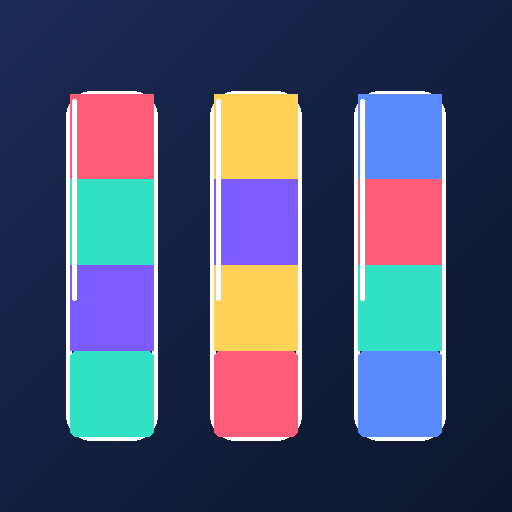
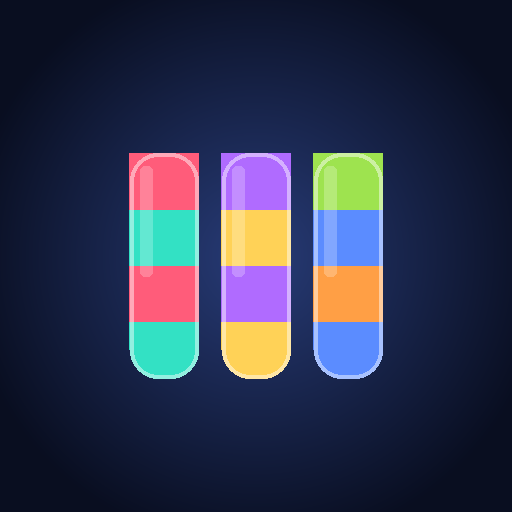
ColorFlow v2 : tuto 3 étapes, surbrillance verte des coups valides, animation versement, son+vibration, nouvelle icône, SW network-first

diff --git a/index.html b/index.html
@@ -16,6 +16,7 @@
     --bg:#0e1630; --bg2:#070c1c; --panel:#182a52; --line:#2b3d68;
     --accent:#33e1c4; --accent2:#7c5cff; --gold:#ffd257;
     --text:#eef3ff; --muted:#93a4cc; --tube:#101a38; --tubeglass:rgba(255,255,255,.06);
+    --good:#37e08a;
   }
   *{box-sizing:border-box;-webkit-tap-highlight-color:transparent;-webkit-user-select:none;user-select:none}
   html,body{margin:0;height:100%}
@@ -24,43 +25,60 @@
     background:radial-gradient(1200px 800px at 50% -8%, #1b2a55 0%, #0e1630 45%, #070c1c 100%);
     color:var(--text);min-height:100dvh;display:flex;flex-direction:column;overflow:hidden;touch-action:manipulation;
   }
-  .top{display:flex;align-items:center;justify-content:space-between;padding:14px 18px 6px}
+  .top{display:flex;align-items:center;justify-content:space-between;padding:14px 16px 4px}
   .logo{font-weight:800;font-size:20px;letter-spacing:.3px;display:flex;align-items:center;gap:8px}
   .logo .dot{width:14px;height:14px;border-radius:50%;background:conic-gradient(#33e1c4,#7c5cff,#ff5c8a,#ffd257,#33e1c4);box-shadow:0 0 14px rgba(124,92,255,.6)}
   .logo b{background:linear-gradient(90deg,#7cf0dc,#a99bff);-webkit-background-clip:text;background-clip:text;color:transparent}
-  .hud{display:flex;gap:8px;align-items:center}
-  .chip{background:rgba(255,255,255,.06);border:1px solid var(--line);border-radius:12px;padding:7px 12px;font-size:13px;font-weight:700;color:var(--text)}
+  .hud{display:flex;gap:6px;align-items:center}
+  .chip{background:rgba(255,255,255,.06);border:1px solid var(--line);border-radius:12px;padding:7px 11px;font-size:13px;font-weight:700;color:var(--text)}
   .chip .k{color:var(--muted);font-weight:600;margin-right:5px}
-  .iconbtn{width:40px;height:40px;border-radius:12px;background:rgba(255,255,255,.06);border:1px solid var(--line);color:var(--text);font-size:18px;display:flex;align-items:center;justify-content:center;cursor:pointer}
+  .iconbtn{width:38px;height:38px;border-radius:12px;background:rgba(255,255,255,.06);border:1px solid var(--line);color:var(--text);font-size:17px;display:flex;align-items:center;justify-content:center;cursor:pointer}
   .iconbtn:active{transform:scale(.94)}
-  .stage{flex:1;display:flex;align-items:center;justify-content:center;padding:6px 10px}
+  .stage{flex:1;display:flex;align-items:center;justify-content:center;padding:6px 10px;position:relative}
   .tubes{display:flex;flex-wrap:wrap;gap:16px 20px;justify-content:center;align-items:flex-end;max-width:560px}
   .tube{
     position:relative;width:56px;height:200px;border:3px solid rgba(255,255,255,.16);
     border-top:none;border-radius:6px 6px 26px 26px;background:var(--tubeglass);
-    display:flex;flex-direction:column-reverse;overflow:hidden;cursor:pointer;transition:transform .18s cubic-bezier(.3,1.4,.5,1);
+    display:flex;flex-direction:column-reverse;overflow:hidden;cursor:pointer;
+    transition:transform .2s cubic-bezier(.3,1.5,.5,1), box-shadow .2s, border-color .2s;
     box-shadow:inset 0 -8px 20px rgba(0,0,0,.25);
   }
-  .tube::before{content:"";position:absolute;top:0;left:6px;width:10px;height:70%;background:linear-gradient(180deg,rgba(255,255,255,.28),transparent);border-radius:8px;pointer-events:none}
-  .tube.sel{transform:translateY(-22px);border-color:var(--gold);box-shadow:0 10px 26px rgba(255,210,87,.28),inset 0 -8px 20px rgba(0,0,0,.25)}
-  .tube.win{border-color:var(--accent)}
-  .seg{width:100%;height:25%;transition:height .12s ease, opacity .2s ease}
-  .seg.pour{animation:pop .22s ease}
-  @keyframes pop{0%{transform:scaleY(.4);opacity:.4}100%{transform:scaleY(1);opacity:1}}
-  .adbar{height:56px;min-height:56px;display:flex;align-items:center;justify-content:center;border-top:1px solid var(--line);background:rgba(6,10,24,.7);color:var(--muted);font-size:12px;letter-spacing:.3px;gap:8px}
-  .adbar .slot{display:flex;align-items:center;gap:10px;background:rgba(255,255,255,.04);border:1px dashed var(--line);border-radius:10px;padding:8px 14px}
-  .foothint{text-align:center;color:var(--muted);font-size:12px;padding:2px 0 6px}
+  .tube::before{content:"";position:absolute;top:0;left:6px;width:10px;height:70%;background:linear-gradient(180deg,rgba(255,255,255,.28),transparent);border-radius:8px;pointer-events:none;z-index:3}
+  .tube.sel{transform:translateY(-24px);border-color:var(--gold);box-shadow:0 12px 26px rgba(255,210,87,.30),inset 0 -8px 20px rgba(0,0,0,.25)}
+  .tube.valid{border-color:var(--good);box-shadow:0 0 0 3px rgba(55,224,138,.22),0 0 22px rgba(55,224,138,.35),inset 0 -8px 20px rgba(0,0,0,.25);animation:validpulse 1.1s ease-in-out infinite}
+  @keyframes validpulse{0%,100%{box-shadow:0 0 0 3px rgba(55,224,138,.18),0 0 16px rgba(55,224,138,.28),inset 0 -8px 20px rgba(0,0,0,.25)}50%{box-shadow:0 0 0 5px rgba(55,224,138,.30),0 0 30px rgba(55,224,138,.5),inset 0 -8px 20px rgba(0,0,0,.25)}}
+  .tube.win{border-color:var(--accent);animation:winpop .5s ease}
+  @keyframes winpop{0%{transform:scale(1)}40%{transform:scale(1.08)}100%{transform:scale(1)}}
+  .tube.hintpulse{animation:hintpulse 1s ease-in-out infinite}
+  @keyframes hintpulse{0%,100%{transform:translateY(0)}50%{transform:translateY(-10px)}}
+  .seg{width:100%;height:25%;position:relative;z-index:1}
+  .seg.pourin{animation:pourin .34s cubic-bezier(.35,.9,.4,1)}
+  @keyframes pourin{0%{transform:translateY(-220px) scaleY(.5);opacity:.15}60%{opacity:1}80%{transform:translateY(6px) scaleY(1.08)}100%{transform:translateY(0) scaleY(1);opacity:1}}
+  .tube.shake{animation:shake .3s}
+  @keyframes shake{0%,100%{transform:translateX(0)}25%{transform:translateX(-5px)}50%{transform:translateX(5px)}75%{transform:translateX(-3px)}}
+  .adbar{height:52px;min-height:52px;display:flex;align-items:center;justify-content:center;border-top:1px solid var(--line);background:rgba(6,10,24,.7);color:var(--muted);font-size:12px;letter-spacing:.3px;gap:8px}
+  .adbar .slot{display:flex;align-items:center;gap:10px;background:rgba(255,255,255,.04);border:1px dashed var(--line);border-radius:10px;padding:7px 14px}
+  .foothint{text-align:center;color:var(--muted);font-size:13px;padding:4px 12px 8px;min-height:22px;transition:color .2s;font-weight:600}
+  .foothint b{color:var(--good)}
   /* overlays */
-  .ov{position:fixed;inset:0;display:none;align-items:center;justify-content:center;z-index:50;padding:22px;background:rgba(5,9,20,.74);backdrop-filter:blur(5px)}
+  .ov{position:fixed;inset:0;display:none;align-items:center;justify-content:center;z-index:50;padding:22px;background:rgba(5,9,20,.78);backdrop-filter:blur(5px)}
   .ov.show{display:flex}
-  .sheet{background:linear-gradient(180deg,#182a52,#101a38);border:1px solid var(--line);border-radius:22px;max-width:420px;width:100%;padding:26px 22px;text-align:center;box-shadow:0 24px 60px rgba(0,0,0,.5)}
+  .sheet{background:linear-gradient(180deg,#182a52,#101a38);border:1px solid var(--line);border-radius:22px;max-width:430px;width:100%;padding:26px 22px;text-align:center;box-shadow:0 24px 60px rgba(0,0,0,.5)}
   .sheet h2{margin:6px 0 4px;font-size:26px}
-  .sheet p{color:var(--muted);margin:0 0 18px;line-height:1.5}
+  .sheet p{color:var(--muted);margin:0 0 16px;line-height:1.5}
   .big{font-size:54px;line-height:1;margin:6px 0}
   .btn{border:none;border-radius:14px;padding:15px 20px;font-size:17px;font-weight:800;cursor:pointer;width:100%;color:#08111f;background:linear-gradient(180deg,#5cf0d6,#26c9ab)}
   .btn:active{transform:scale(.98)}
   .btn.sec{background:transparent;border:1px solid var(--line);color:var(--text);font-weight:700;margin-top:10px}
   .stars{font-size:30px;letter-spacing:6px;margin:2px 0 6px}
+  /* how-to steps */
+  .steps{text-align:left;background:rgba(255,255,255,.04);border:1px solid var(--line);border-radius:14px;padding:14px 16px;margin:2px 0 18px}
+  .steps .st{display:flex;gap:11px;align-items:flex-start;margin:9px 0;font-size:14.5px;line-height:1.35;color:var(--text)}
+  .steps .st .n{flex:0 0 26px;height:26px;border-radius:50%;background:linear-gradient(180deg,#5cf0d6,#26c9ab);color:#06121e;font-weight:800;display:flex;align-items:center;justify-content:center;font-size:14px}
+  .steps .st b{color:var(--good)}
+  .mini{display:flex;gap:8px;justify-content:center;margin:4px 0 14px;align-items:flex-end}
+  .mtube{width:26px;height:74px;border:2px solid rgba(255,255,255,.18);border-top:none;border-radius:3px 3px 12px 12px;display:flex;flex-direction:column-reverse;overflow:hidden}
+  .mseg{width:100%;height:25%}
   /* interstitial house-ad */
   .adcard{background:linear-gradient(135deg,#20305a,#141f3e);border:1px solid var(--line);border-radius:16px;padding:20px;margin-bottom:14px}
   .adcard .lbl{font-size:11px;color:var(--muted);letter-spacing:1px;text-align:left;margin-bottom:8px}
@@ -70,7 +88,7 @@
   .adcard .promo p{margin:0;font-size:13px}
   .skip{color:var(--muted);font-size:13px;margin-top:6px}
   a.plain{color:var(--accent)}
-  .toast{position:fixed;left:50%;top:14px;transform:translateX(-50%);background:#0f1a30;border:1px solid var(--accent);padding:9px 16px;border-radius:12px;font-weight:700;font-size:14px;z-index:70;opacity:0;transition:opacity .2s;pointer-events:none}
+  .toast{position:fixed;left:50%;top:14px;transform:translateX(-50%);background:#0f1a30;border:1px solid var(--accent);padding:9px 16px;border-radius:12px;font-weight:700;font-size:14px;z-index:70;opacity:0;transition:opacity .2s;pointer-events:none;text-align:center;max-width:88vw}
   .toast.show{opacity:1}
 </style>
 </head>
@@ -80,14 +98,16 @@
     <div class="hud">
       <span class="chip"><span class="k">Niv.</span><span id="lvl">1</span></span>
       <span class="chip"><span class="k">Coups</span><span id="moves">0</span></span>
+      <button class="iconbtn" id="sound" title="Son">🔊</button>
       <button class="iconbtn" id="undo" title="Annuler">↩︎</button>
       <button class="iconbtn" id="restart" title="Recommencer">⟳</button>
+      <button class="iconbtn" id="help" title="Règles">?</button>
     </div>
   </div>
 
   <div class="stage"><div class="tubes" id="tubes"></div></div>
 
-  <div class="foothint" id="hint">Touche un tube, puis un autre pour verser. But : une seule couleur par tube.</div>
+  <div class="foothint" id="hint">Touche un tube pour commencer.</div>
 
   <!-- Emplacement bannière (AdMob/AdSense à brancher) -->
   <div class="adbar" id="banner">
@@ -118,12 +138,33 @@
     </div>
   </div>
 
+  <!-- HELP / rules -->
+  <div class="ov" id="helpOv">
+    <div class="sheet">
+      <div class="big">🧪</div>
+      <h2>Comment jouer</h2>
+      <div class="mini" id="miniGuide"></div>
+      <div class="steps">
+        <div class="st"><span class="n">1</span><div>Touche un <b>tube plein</b> : il se soulève (sélectionné).</div></div>
+        <div class="st"><span class="n">2</span><div>Touche un tube en <b>vert</b> pour <b>verser</b> la couleur du dessus. On ne verse que sur la <b>même couleur</b> (ou un tube vide).</div></div>
+        <div class="st"><span class="n">3</span><div>Objectif : <b>4 couleurs identiques</b> dans chaque tube. Tout trié = niveau gagné ✓</div></div>
+      </div>
+      <button class="btn" id="helpClose">J'ai compris, je joue ▶</button>
+    </div>
+  </div>
+
   <!-- START / new game -->
   <div class="ov" id="startOv">
     <div class="sheet">
       <div class="big">🧪</div>
       <h2>ColorFlow</h2>
-      <p>Verse les couleurs, trie les tubes, vide ta tête.<br>Simple. Satisfaisant. Sans fin.</p>
+      <p>Verse les couleurs, trie les tubes, vide ta tête.</p>
+      <div class="mini" id="miniGuide2"></div>
+      <div class="steps">
+        <div class="st"><span class="n">1</span><div>Touche un <b>tube</b> pour le soulever.</div></div>
+        <div class="st"><span class="n">2</span><div>Touche un tube <b>vert</b> pour <b>verser</b> la couleur du dessus.</div></div>
+        <div class="st"><span class="n">3</span><div>Range <b>4 couleurs identiques</b> par tube = gagné ✓</div></div>
+      </div>
       <button class="btn" id="playBtn">Jouer ▶</button>
       <button class="btn sec" id="contBtn">Reprendre au niveau <span id="contLvl">1</span></button>
     </div>
@@ -148,11 +189,31 @@
 
   var st=null;          // {level, tubes:[[..]], moves}
   var sel=-1, history=[], winCount=load('cf_wins',0), busy=false;
+  var soundOn=load('cf_sound',1), tutDone=load('cf_tut',0);
 
   function load(k,d){try{var v=localStorage.getItem(k);return v==null?d:JSON.parse(v);}catch(e){return d;}}
   function saveWins(){localStorage.setItem('cf_wins',JSON.stringify(winCount));}
   function saveGame(){localStorage.setItem(KEY,JSON.stringify({level:st.level}));}
   function savedLevel(){var g=load(KEY,null);return g&&g.level?g.level:1;}
+
+  /* ---- audio (Web Audio, aucun fichier) ---- */
+  var actx=null;
+  function ac(){ if(!actx){ try{ actx=new (window.AudioContext||window.webkitAudioContext)(); }catch(e){} } if(actx&&actx.state==='suspended') actx.resume(); return actx; }
+  function tone(freq,dur,type,vol,slideTo){
+    if(!soundOn) return; var c=ac(); if(!c) return;
+    var o=c.createOscillator(), g=c.createGain(); o.type=type||'sine';
+    o.frequency.setValueAtTime(freq,c.currentTime);
+    if(slideTo) o.frequency.exponentialRampToValueAtTime(slideTo,c.currentTime+dur);
+    g.gain.setValueAtTime((vol||0.14),c.currentTime);
+    g.gain.exponentialRampToValueAtTime(0.0001,c.currentTime+dur);
+    o.connect(g); g.connect(c.destination); o.start(); o.stop(c.currentTime+dur+0.02);
+  }
+  function sPick(){ tone(660,0.08,'triangle',0.12,880); vib(8); }
+  function sPour(){ tone(520,0.22,'sine',0.16,240); vib(14); }
+  function sBad(){ tone(150,0.16,'sawtooth',0.10,90); vib([12,40,12]); }
+  function sTubeDone(){ tone(880,0.12,'sine',0.14,1320); }
+  function sWin(){ if(!soundOn)return; [523,659,784,1047].forEach(function(f,i){ setTimeout(function(){tone(f,0.18,'sine',0.16);},i*110); }); vib([20,40,20,40,60]); }
+  function vib(p){ try{ if(soundOn&&navigator.vibrate) navigator.vibrate(p); }catch(e){} }
 
   /* ---- level generation (solvable-friendly: 2 tubes vides) ---- */
   function levelConfig(L){
@@ -162,23 +223,34 @@
   function genLevel(L){
     var cfg=levelConfig(L), n=cfg.colors, empt=cfg.empties;
     var bag=[]; for(var c=0;c<n;c++){ for(var i=0;i<H;i++) bag.push(c); }
-    // shuffle
     for(var i=bag.length-1;i>0;i--){var j=Math.floor(Math.random()*(i+1));var t=bag[i];bag[i]=bag[j];bag[j]=t;}
     var tubes=[]; for(var k=0;k<n;k++) tubes.push(bag.slice(k*H,k*H+H));
     for(var e=0;e<empt;e++) tubes.push([]);
-    if(isSolved(tubes)) return genLevel(L); // extrêmement rare
+    if(isSolved(tubes)) return genLevel(L);
     return {level:L, tubes:tubes, moves:0};
   }
   function isSolved(tubes){
     return tubes.every(function(t){ return t.length===0 || (t.length===H && t.every(function(x){return x===t[0];})); });
+  }
+  function tubeDone(t){ return t.length===H && t.every(function(x){return x===t[0];}); }
+
+  /* ---- validity (pour teaching the rule) ---- */
+  function canPour(fromIdx,toIdx){
+    if(fromIdx===toIdx) return false;
+    var from=st.tubes[fromIdx], to=st.tubes[toIdx];
+    if(!from.length) return false;
+    var run=topRun(from), space=H-to.length;
+    return run.count>0 && space>0 && (to.length===0 || to[to.length-1]===run.color);
   }
 
   /* ---- render ---- */
   function render(){
     var wrap=$('tubes'); wrap.innerHTML='';
     st.tubes.forEach(function(tube,idx){
-      var el=document.createElement('div'); el.className='tube'+(idx===sel?' sel':'');
-      if(tube.length===H && tube.every(function(x){return x===tube[0];})) el.className+=' win';
+      var el=document.createElement('div'); el.className='tube';
+      if(idx===sel) el.className+=' sel';
+      else if(sel>=0 && canPour(sel,idx)) el.className+=' valid';
+      if(tubeDone(tube)) el.className+=' win';
       for(var i=0;i<tube.length;i++){
         var s=document.createElement('div'); s.className='seg';
         s.style.background=COLORS[tube[i]];
@@ -188,30 +260,62 @@
       wrap.appendChild(el);
     });
     $('lvl').textContent=st.level; $('moves').textContent=st.moves;
+    updateHint();
+  }
+  function updateHint(){
+    var h=$('hint');
+    if(sel<0){
+      h.innerHTML = st.moves===0 && !tutDone
+        ? 'Touche un <b>tube plein</b> pour le soulever 👆'
+        : 'Touche un tube pour le soulever.';
+    } else {
+      var any=st.tubes.some(function(_,i){return canPour(sel,i);});
+      h.innerHTML = any
+        ? 'Touche un tube en <b>vert</b> pour verser 👆 (re-touche pour annuler)'
+        : 'Aucun versement possible — touche un autre tube.';
+    }
   }
 
   /* ---- move logic ---- */
   function topRun(tube){ if(!tube.length) return {color:-1,count:0}; var c=tube[tube.length-1],n=1;
     for(var i=tube.length-2;i>=0 && tube[i]===c;i--) n++; return {color:c,count:n}; }
   function onTube(idx){
-    if(busy) return;
-    if(sel===-1){ if(st.tubes[idx].length){ sel=idx; render(); } return; }
+    if(busy) return; ac();
+    if(sel===-1){
+      if(st.tubes[idx].length){ sel=idx; sPick(); render(); }
+      else { toast('Ce tube est vide 🙂'); }
+      return;
+    }
     if(idx===sel){ sel=-1; render(); return; }
-    var from=st.tubes[sel], to=st.tubes[idx];
-    var run=topRun(from), space=H-to.length;
-    if(run.count>0 && (to.length===0 || to[to.length-1]===run.color) && space>0){
+    if(canPour(sel,idx)){
+      var from=st.tubes[sel], to=st.tubes[idx];
+      var run=topRun(from), space=H-to.length;
       var move=Math.min(run.count, space);
       history.push(JSON.stringify(st.tubes));
       for(var m=0;m<move;m++) to.push(from.pop());
-      st.moves++; sel=-1; busy=true;
-      render();
-      // flag animation on poured segments
+      st.moves++; var srcIdx=sel; sel=-1; busy=true;
+      render(); sPour();
+      // animate poured segments
       var toEl=$('tubes').children[idx];
       var segs=toEl.querySelectorAll('.seg');
-      for(var k=segs.length-move;k<segs.length;k++) if(segs[k]) segs[k].classList.add('pour');
-      setTimeout(function(){ busy=false; saveGame(); if(isSolved(st.tubes)) win(); }, 200);
+      for(var k=segs.length-move;k<segs.length;k++) if(segs[k]) segs[k].classList.add('pourin');
+      // source lift then drop
+      var srcEl=$('tubes').children[srcIdx]; if(srcEl){ srcEl.style.transform='translateY(-18px)'; }
+      if(!tutDone){ tutDone=1; localStorage.setItem('cf_tut','1'); toast('Parfait ! 🎉 Range 4 couleurs identiques par tube.'); }
+      setTimeout(function(){
+        if(srcEl) srcEl.style.transform='';
+        busy=false; saveGame();
+        if(tubeDone(st.tubes[idx])) sTubeDone();
+        if(isSolved(st.tubes)) win();
+      }, 340);
     } else {
-      sel = st.tubes[idx].length ? idx : -1; render();
+      // invalid: shake target, switch selection if it has content
+      var tEl=$('tubes').children[idx];
+      if(tEl){ tEl.classList.add('shake'); setTimeout(function(){tEl.classList.remove('shake');},300); }
+      sBad();
+      sel = st.tubes[idx].length ? idx : -1;
+      if(sel>=0) sPick();
+      render();
     }
   }
 
@@ -224,14 +328,21 @@
     if(!confirm('Recommencer ce niveau ?'))return;
     st=genLevel(st.level); history=[]; sel=-1; render();
   });
+  $('sound').addEventListener('click',function(){
+    soundOn=soundOn?0:1; localStorage.setItem('cf_sound',JSON.stringify(soundOn));
+    $('sound').textContent=soundOn?'🔊':'🔇'; if(soundOn){ac();sPick();}
+  });
+  $('sound').textContent=soundOn?'🔊':'🔇';
+  $('help').addEventListener('click',function(){ buildMini('miniGuide'); $('helpOv').classList.add('show'); });
+  $('helpClose').addEventListener('click',function(){ $('helpOv').classList.remove('show'); });
 
   /* ---- win ---- */
   function win(){
-    winCount++; saveWins();
+    winCount++; saveWins(); sWin();
     var stars = st.moves<=optimalGuess()?3:(st.moves<=optimalGuess()*1.7?2:1);
     $('winStars').textContent = '★ '.repeat(stars).trim()+' '+'☆ '.repeat(3-stars).trim();
     $('winSub').textContent = 'Résolu en '+st.moves+' coups. '+(stars===3?'Parfait ✨':'Continue, tu chauffes !');
-    $('winOv').classList.add('show');
+    setTimeout(function(){ $('winOv').classList.add('show'); }, 420);
   }
   function optimalGuess(){ return levelConfig(st.level).colors*2+2; }
   $('nextBtn').addEventListener('click',function(){
@@ -260,7 +371,6 @@
     var g=c.createLinearGradient(0,0,0,1920); g.addColorStop(0,'#1b2a55');g.addColorStop(.5,'#0e1630');g.addColorStop(1,'#070c1c');
     c.fillStyle=g;c.fillRect(0,0,1080,1920);
     c.textAlign='center';
-    // tubes deco
     for(var i=0;i<5;i++){var x=140+i*180;c.fillStyle=COLORS[i%COLORS.length];roundR(c,x,300,90,260,24);c.globalAlpha=.9;c.fill();c.globalAlpha=1;}
     c.fillStyle='#eef3ff';c.font='800 90px -apple-system,Segoe UI,sans-serif';c.fillText('ColorFlow',540,760);
     c.fillStyle='#33e1c4';c.font='800 200px -apple-system,Segoe UI,sans-serif';c.fillText('Niv. '+st.level,540,1020);
@@ -277,14 +387,26 @@
   }
   function roundR(c,x,y,w,h,r){c.beginPath();c.moveTo(x+r,y);c.arcTo(x+w,y,x+w,y+h,r);c.arcTo(x+w,y+h,x,y+h,r);c.arcTo(x,y+h,x,y,r);c.arcTo(x,y,x+w,y,r);c.closePath();}
 
+  /* ---- mini animated guide (in start/help sheets) ---- */
+  function buildMini(id){
+    var host=$(id); if(!host) return; host.innerHTML='';
+    var demo=[[1,0,1],[0,1,0],[]]; // 3 mini tubes: color idx into a 2-color demo
+    var cset=['#ff5c7a','#33e1c4'];
+    demo.forEach(function(t){
+      var mt=document.createElement('div'); mt.className='mtube';
+      t.forEach(function(ci){var s=document.createElement('div');s.className='mseg';s.style.background=cset[ci];mt.appendChild(s);});
+      host.appendChild(mt);
+    });
+  }
+
   /* ---- toast ---- */
-  var tt; function toast(m){var e=$('toast');e.textContent=m;e.classList.add('show');clearTimeout(tt);tt=setTimeout(function(){e.classList.remove('show');},1600);}
+  var tt; function toast(m){var e=$('toast');e.innerHTML=m;e.classList.add('show');clearTimeout(tt);tt=setTimeout(function(){e.classList.remove('show');},2000);}
 
   /* ---- boot ---- */
   $('contLvl').textContent=savedLevel();
-  $('playBtn').addEventListener('click',function(){ st=genLevel(1); localStorage.setItem('cf_wins','0'); winCount=0; history=[]; sel=-1; $('startOv').classList.remove('show'); render(); });
-  $('contBtn').addEventListener('click',function(){ st=genLevel(savedLevel()); history=[]; sel=-1; $('startOv').classList.remove('show'); render(); });
-  // écran de départ
+  buildMini('miniGuide2');
+  $('playBtn').addEventListener('click',function(){ ac(); st=genLevel(1); localStorage.setItem('cf_wins','0'); winCount=0; history=[]; sel=-1; $('startOv').classList.remove('show'); render(); });
+  $('contBtn').addEventListener('click',function(){ ac(); st=genLevel(savedLevel()); history=[]; sel=-1; $('startOv').classList.remove('show'); render(); });
   st=genLevel(savedLevel()); render();
   $('startOv').classList.add('show');
 

diff --git a/sw.js b/sw.js
@@ -1,6 +1,6 @@
-/* ColorFlow · service worker (offline-first) */
-var CACHE = 'colorflow-v1';
-var ASSETS = ['./','./index.html','./manifest.webmanifest','./icon-192.png','./icon-512.png'];
+/* ColorFlow · service worker (network-first sur le HTML pour éviter les MAJ coincées) */
+var CACHE = 'colorflow-v3';
+var ASSETS = ['./','./index.html','./manifest.webmanifest','./icon-192.png','./icon-512.png','./icon-512-maskable.png'];
 self.addEventListener('install', function(e){ self.skipWaiting();
   e.waitUntil(caches.open(CACHE).then(function(c){return c.addAll(ASSETS);}).catch(function(){})); });
 self.addEventListener('activate', function(e){
@@ -8,6 +8,14 @@ self.addEventListener('activate', function(e){
 self.addEventListener('fetch', function(e){
   var req=e.request; if(req.method!=='GET') return;
   var url=new URL(req.url); if(url.origin!==location.origin) return;
+  var isDoc = req.mode==='navigate' || (req.headers.get('accept')||'').indexOf('text/html')>=0 || url.pathname.endsWith('/') || url.pathname.endsWith('index.html');
+  if(isDoc){
+    // network-first : toujours la dernière version quand en ligne, cache en secours hors-ligne
+    e.respondWith(fetch(req).then(function(res){ if(res&&res.status===200){var cp=res.clone();caches.open(CACHE).then(function(c){c.put(req,cp);});} return res; })
+      .catch(function(){ return caches.match(req).then(function(c){return c||caches.match('./index.html');}); }));
+    return;
+  }
+  // autres assets : cache-first + revalidation en arrière-plan
   e.respondWith(caches.match(req).then(function(cached){
     var net=fetch(req).then(function(res){ if(res&&res.status===200){var cp=res.clone();caches.open(CACHE).then(function(c){c.put(req,cp);});} return res; }).catch(function(){return cached;});
     return cached||net; }));